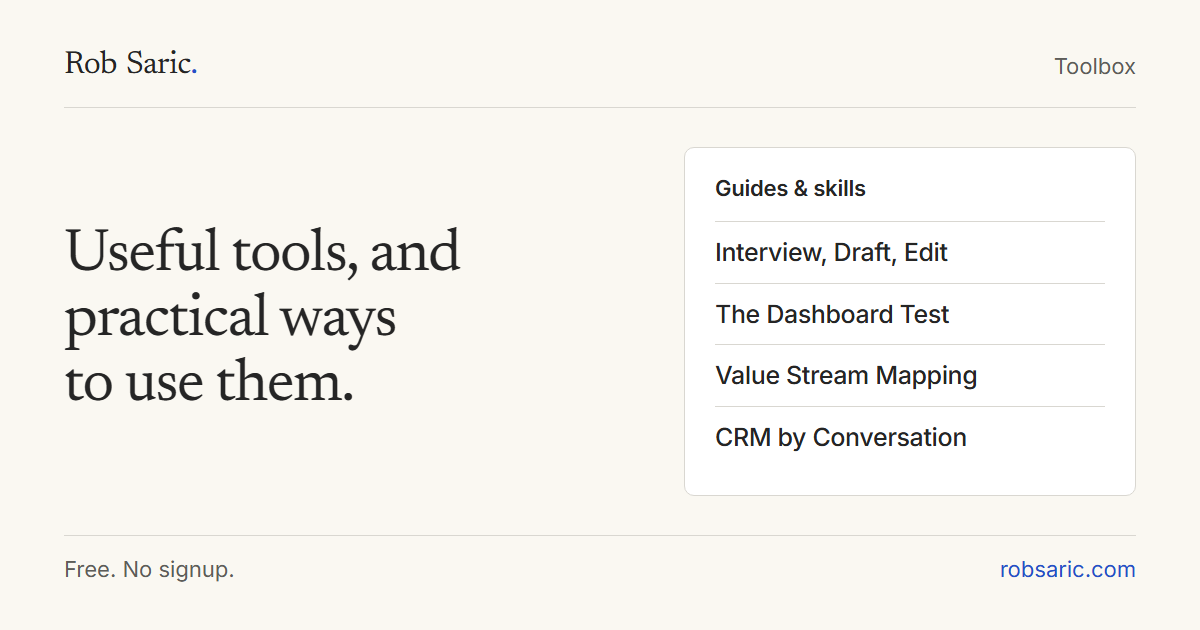
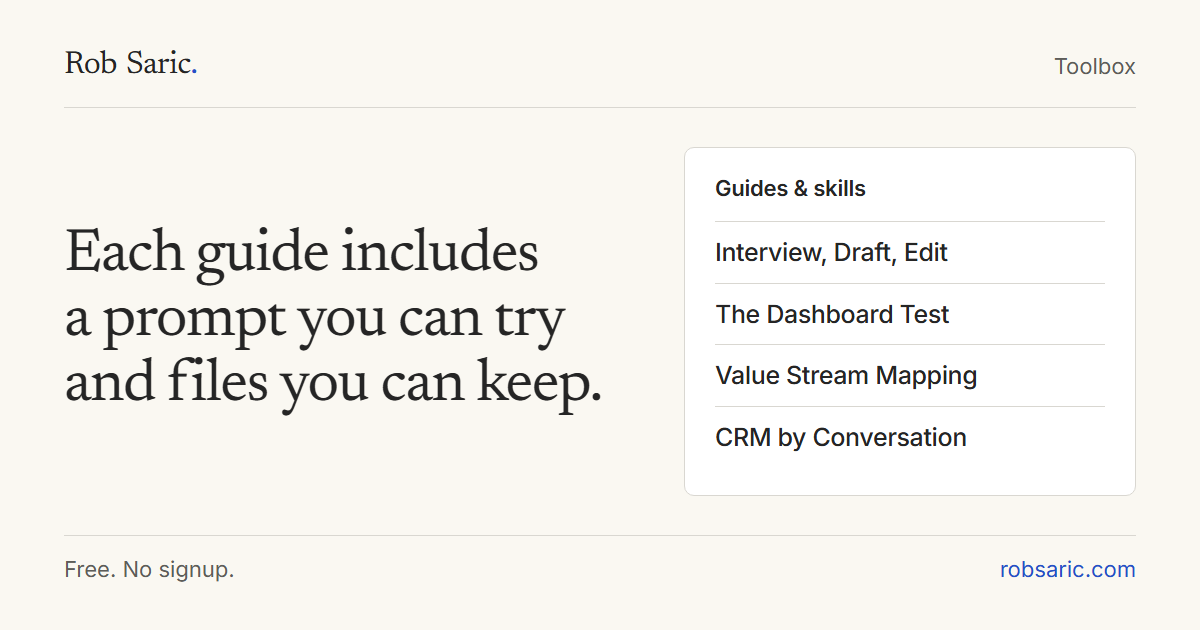
Lead with the Caretrics essay and simplify the mobile Toolbox (#41)

Changed region(s): [[0.0308, 0.4825, 0.4933, 0.6635], [0.0617, 0.3619, 0.4625, 0.4524]]

diff --git a/src/data/dashboard-test.ts b/src/data/dashboard-test.ts
@@ -6,7 +6,7 @@ export const DASHBOARD_TEST = {
   "formats": "Checklist · Prompt · Skill",
   "description": "A free dashboard review checklist, chat prompt and AI skill. Find the main gap, choose one improvement, or decide a dashboard is not needed.",
   "question": "Does your dashboard earn its place?",
-  "intro": "A free AI skill I created to review a dashboard or report against the job someone needs it to do. Bring a screenshot or description. Find what to keep, one useful change, or a simpler alternative.",
+  "intro": "Pick a report you review regularly. Think about the last decision you made with it, then walk through the checklist.",
   "format": "Free checklist, copyable prompt and skill for Claude or Codex. No signup required.",
   "primary": "Try the prompt",
   "secondary": "Download skill ZIP",
@@ -50,8 +50,12 @@ export const DASHBOARD_TEST = {
     }
   ],
   "privacy": "Use a redacted screenshot or a description. Leave out patient details, customer names and confidential records.",
-  "checklistHeading": "Follow the work, not just the chart.",
-  "checklistIntro": "Use these questions yourself or let the prompt guide the conversation. Check a question after you have considered it, even if your answer is “I don’t know.” This is not a score.",
+  "checklistHeading": "The dashboard review checklist",
+  "checklistIntro": "Work through these questions with the person who uses the report. Check each one as you go.",
+  "shareQuestion": "Know someone who prepares the weekly report?",
+  "shareLabel": "Send them the checklist.",
+  "shareSubject": "The Dashboard Test",
+  "shareBody": "Thought of you when I saw this dashboard review checklist.",
   "checklist": [
     {
       "title": "Who is looking, and why?",
@@ -99,6 +103,7 @@ export const DASHBOARD_TEST = {
   "select": "Select the prompt",
   "noScript": "Select the text and copy it into your chat. The checklist and downloads work without JavaScript.",
   "downloadHeading": "Use it again as a skill.",
+  "kitHeading": "Download the kit",
   "downloadIntro": "A skill saves the review instructions so you can reuse them. This one contains instructions only: no scripts, connectors or automatic changes to your dashboard.",
   "skillNameLabel": "Skill name:",
   "skillName": "dashboard-test",
@@ -135,24 +140,19 @@ export const DASHBOARD_TEST = {
   ],
   "setupCheck": "Check the first response: it should use the context you provided and ask about any missing decision or reader. If you only provided a screenshot, it should not claim to know how your team works.",
   "updates": "Downloads are local copies. To update, download again and review the changes before replacing your copy.",
-  "examplesHeading": "Two possible outcomes.",
-  "examplesIntro": "These are illustrative reviews, not measured customer results.",
-  "examples": [
-    {
+  "exampleLabel": "Illustrative example",
+  "workshopExample": {
+    "title": "What’s holding up the workshop?",
+    "context": "A team planning a workshop already has a task list. Someone proposes a dashboard showing the percentage of work complete. At the next check-in, the organizer needs to know which tasks are stuck and who can move them along.",
+    "decision": "Keep the list. Put blocked tasks at the top with an owner, a next step and a due date. At the next check-in, see whether the organizer can find the blocker."
+  },
+  "attendanceExample": {
       "title": "Keep the dashboard. Make the pattern clearer.",
       "context": "An owner reviews attendance over several months and wants to know what deserves attention. The chart and its source dates are available, but the pattern is buried in the report.",
       "verdict": "Change the presentation. The recurring comparison gives the dashboard a purpose.",
       "improvement": "Bring the supported pattern and its time period together above the chart. Keep the counts, limits and existing priority visible.",
       "check": "At the next review, ask the owner what changed and what they would investigate. Check whether they can answer without reconstructing the report."
-    },
-    {
-      "title": "Skip the dashboard. Surface the blocker.",
-      "context": "A team preparing a workshop already has a shared task list. A proposed dashboard shows percent complete, but the owner needs to know what is blocked and who will handle it.",
-      "verdict": "Do not build a dashboard for this job. Keep the existing list.",
-      "improvement": "Put blocked tasks first, with the owner, next step and due date on the same line.",
-      "check": "At the next check-in, see whether the owner can identify the blocker and next action from that list."
-    }
-  ],
+  },
   "verdictLabel": "Verdict",
   "improvementLabel": "One improvement",
   "checkLabel": "How to check it",

diff --git a/src/data/editorial.ts b/src/data/editorial.ts
@@ -1,16 +1,14 @@
+import { OG_SITE_CARD } from './og-card.mjs';
+
 /** Approved personal positioning. Article bodies remain in their content collections. */
 export const EDITORIAL = {
   hero: {
-    identity: 'Co-founder of',
+    identity: 'Rob Saric · Ottawa · Co-founder of',
     identityCompany: 'Caretrics',
-    identityContext: 'Writer · Ottawa',
-    heading: 'Work is hard enough.',
-    emphasis: 'More effort isn’t always the',
-    markedWord: 'answer.',
-    lead: 'I’m building Caretrics to help small clinic teams understand what needs attention and what to do next. I write about building a business, where AI can take repetitive work off your hands, and making time for the people in our lives.',
+    heading: OG_SITE_CARD.heading,
+    lead: 'I built an early version of Caretrics so clinic owners could ask questions about their numbers. I thought that would help. They still had to figure out what to ask.',
+    essayHref: '/field-notes/2026-10-18-small-teams-deserve-their-time-back/',
     portraitAlt: 'Rob Saric in a blue blazer',
-    read: 'Read my writing',
-    work: 'What I’m building',
   },
   writing: {
     title: 'Start here.',

diff --git a/src/data/toolbox.ts b/src/data/toolbox.ts
@@ -11,9 +11,8 @@ const profileDownload = `${downloadBase}/voice-profile.md`;
 /** Public workflow copy. Examples are illustrative, not claims about client work. */
 export const TOOLBOX = {
   title: 'Toolbox',
-  description: 'Products, GitHub libraries, AI skills and practical workflows, with useful examples and honest trade-offs. A growing Toolbox from Rob Saric.',
-  intro: 'Useful tools, and practical ways to use them.',
-  explanation: 'Workflows to try, files to make your own, and tools worth understanding. Start with the job you want to do.',
+  description: 'Four guides from Rob Saric for drafting in your own voice, reviewing a dashboard, finding delays in your work and updating Attio after a meeting.',
+  intro: 'Each guide includes a prompt you can try and files you can keep.',
   navigationLabel: 'Browse the Toolbox',
   sections: [
     { href: '#workflows', label: 'Guides & skills' },

diff --git a/src/data/site.ts b/src/data/site.ts
@@ -1,3 +1,5 @@
+import { OG_SITE_CARD } from './og-card.mjs';
+
 /**
  * Site-wide configuration. Values marked TODO are unset on purpose:
  * components render nothing for an unset link rather than a dead one.
@@ -5,9 +7,9 @@
  */
 export const SITE = {
   name: 'Rob Saric',
-  title: 'Rob Saric · Work is hard enough. More effort isn’t always the answer.',
+  title: `Rob Saric · ${OG_SITE_CARD.heading}`,
   description:
-    'Rob Saric on decisions behind building a business: what’s worth building, where AI helps, and how to leave room for life outside work. Founder in Ottawa.',
+    'Rob Saric, co-founder of Caretrics in Ottawa, writes about building software for small teams, running a business and spending time away from screens.',
   url: 'https://robsaric.com',
   locale: 'en',
   author: {

diff --git a/src/data/ui.ts b/src/data/ui.ts
@@ -1,8 +1,10 @@
+import { OG_SITE_CARD } from './og-card.mjs';
+
 export const UI = {
   editorialReview: 'Design preview · Local review copy.',
   meta: {
     titleSeparator: ' · ',
-    ogImageAlt: 'Rob Saric: Work is hard enough. More effort isn’t always the answer.',
+    ogImageAlt: `${OG_SITE_CARD.author}: ${OG_SITE_CARD.heading}`,
     pageOgImageAlt: (title: string) => `${title} · Rob Saric`,
     /** Alt for a note's generated share card; type is the note's own. */
     noteOgImageAlt: (type: string, title: string) => `${type}: ${title}`,

diff --git a/src/styles/global.css b/src/styles/global.css
@@ -22,7 +22,6 @@ p { text-wrap: pretty; }
 }
 
 html {
-  min-width: 320px;
   background: var(--bg-page);
   color: var(--fg-default);
   font-family: var(--font-sans);
